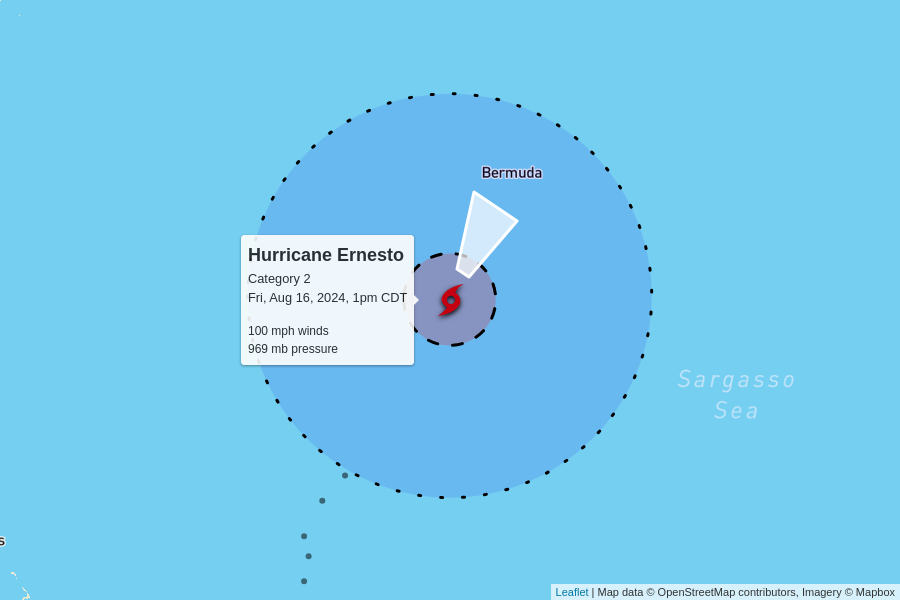
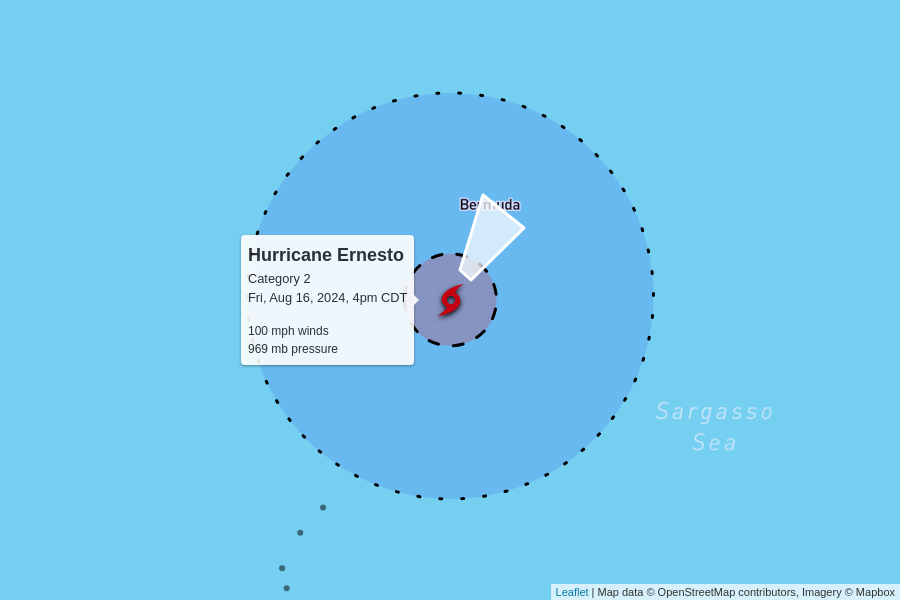
automatic update

diff --git a/docs/index.html b/docs/index.html
@@ -102,7 +102,7 @@
         <td colspan="6" class="storm category-2" >
           <h2>
             Hurricane Ernesto - Category 2
-            <p class="updated">last updated <span data-time>2024-08-16T18:00:00.000Z</span></p>
+            <p class="updated">last updated <span data-time>2024-08-16T21:00:00.000Z</span></p>
           </h2>
         </td>
       </tr>
@@ -118,11 +118,11 @@
       <tr>
         <td class="spacer"></td>
         <td>100 mph<br>0 mph since last update</td>
-        <td>969 mb<br>-1 mb since last update</td>
+        <td>969 mb<br>0 mb since last update</td>
         <td>
-          14 mph to the north-northeast
+          13 mph to the northeast
           <br/>
-          <span style="display: inline-block; font-size: 1.5em; transform: rotate(30deg);">↑</span>
+          <span style="display: inline-block; font-size: 1.5em; transform: rotate(35deg);">↑</span>
         </td>
         <td><a href="https://raw.githubusercontent.com/mgwalker/atlantic-hurricanes/main/data/csv/AL052024.csv">AL052024.csv</a></td>
         <td><a href="https://www.nhc.noaa.gov/archive/2024/ERNESTO.shtml?">NHC advisories</a></td>
